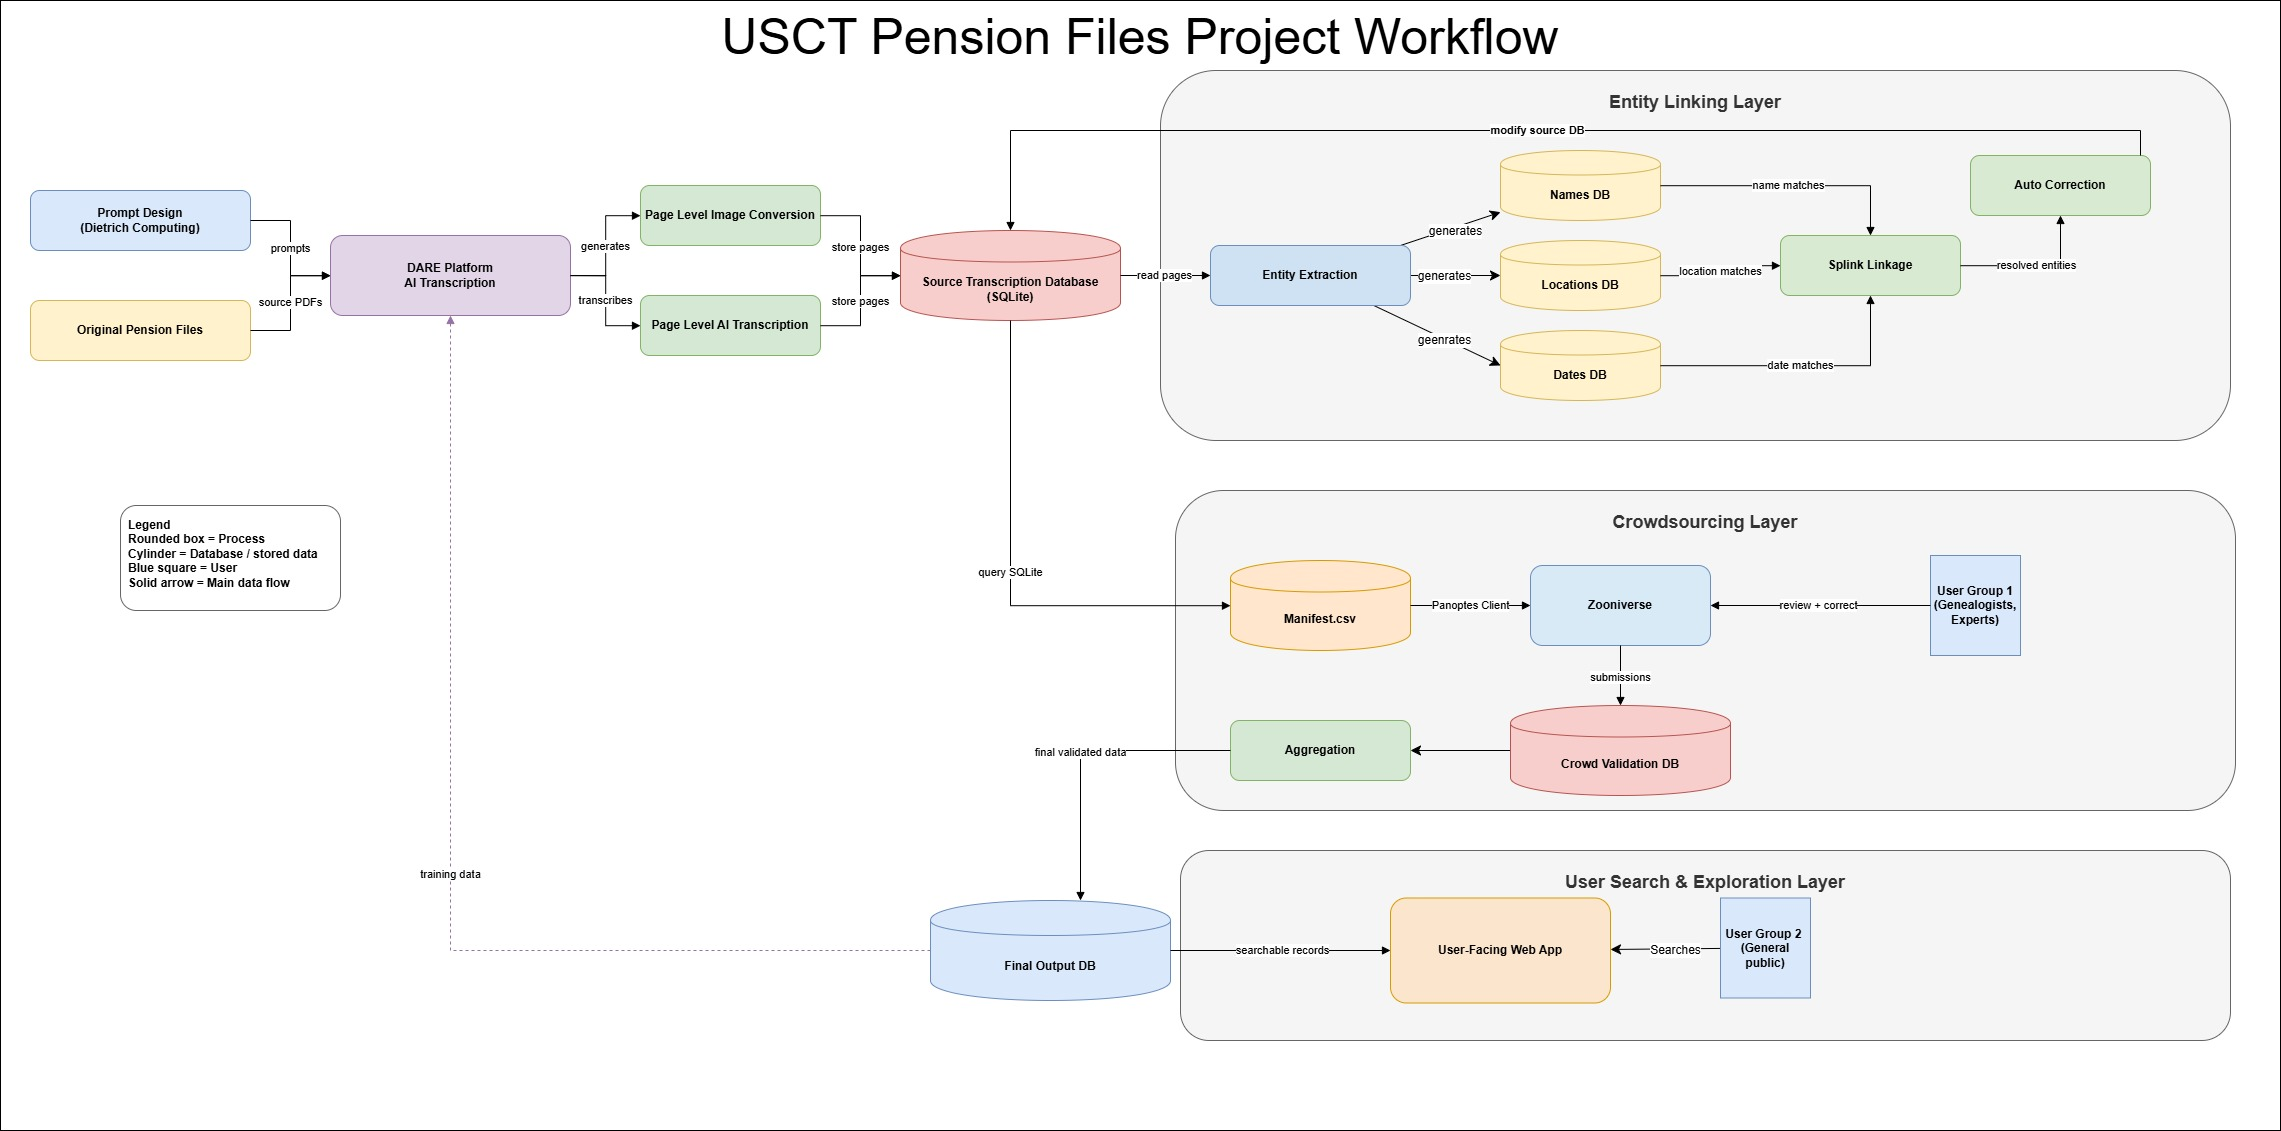
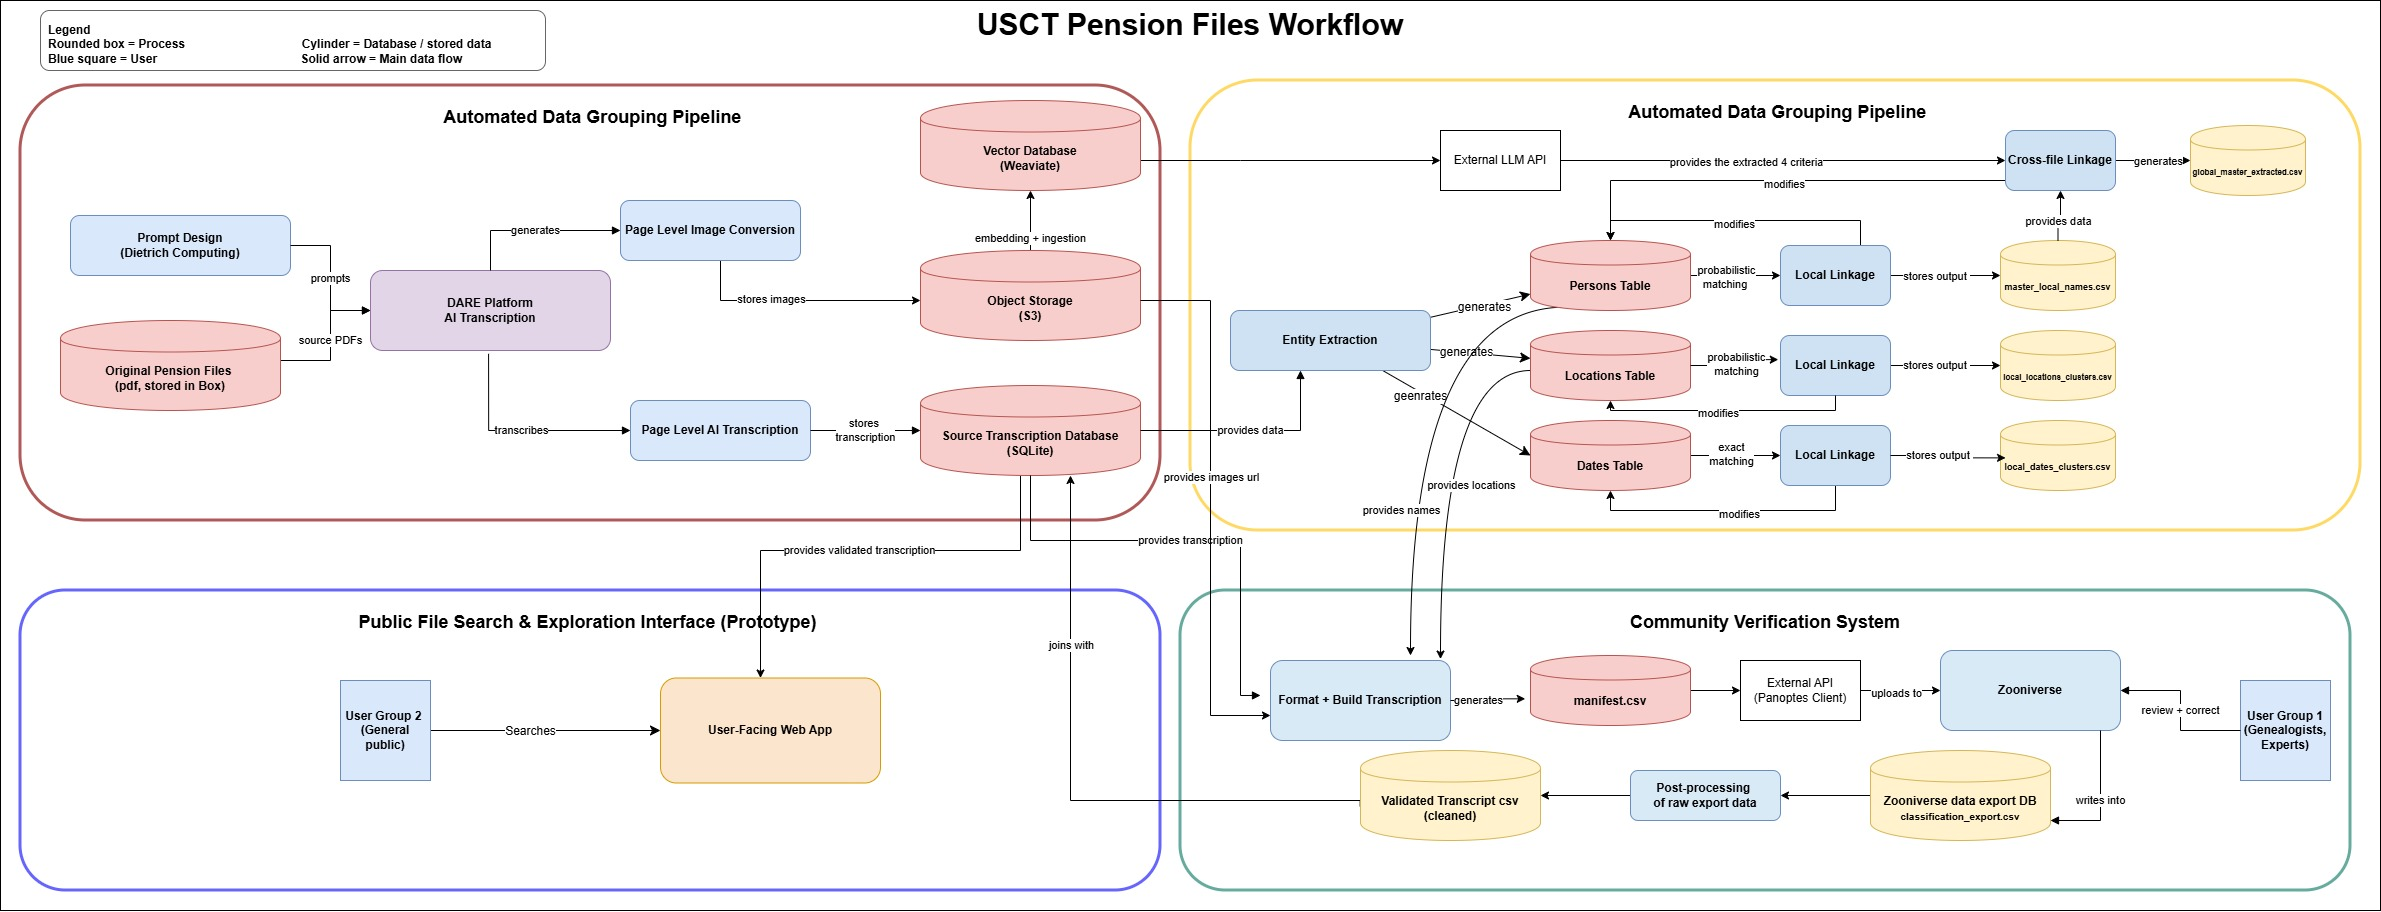
changed to finalized diagrams, removed usernames

diff --git a/zooniverse/src/upload/upload_subjects.py b/zooniverse/src/upload/upload_subjects.py
@@ -10,10 +10,10 @@ from panoptes_client.panoptes import PanoptesAPIException
 from panoptes_client.set_member_subject import SetMemberSubject
 
 REPO_ROOT = Path(__file__).resolve().parents[2]
-USERNAME = os.getenv("ZOONIVERSE_USERNAME", "usct_pension_files")
-PASSWORD = os.getenv("ZOONIVERSE_PASSWORD", "usct2026")
+USERNAME = os.getenv("ZOONIVERSE_USERNAME", "your-zooniverse-username") # please ask Dr Fields Black for the username
+PASSWORD = os.getenv("ZOONIVERSE_PASSWORD", "your-zooniverse-password") # please ask Dr Fields Black for the password
 PROJECT_ID = int(os.getenv("ZOONIVERSE_PROJECT_ID", "32086"))
-SUBJECT_SET_NAME = os.getenv("SUBJECT_SET_NAME", "Initial Transcription Review")
+SUBJECT_SET_NAME = os.getenv("SUBJECT_SET_NAME", "Initial Full Transcription")
 MANIFEST_PATH = Path(os.getenv("MANIFEST_PATH", REPO_ROOT / "dataset/manifest.csv"))
 BATCH_SIZE = int(os.getenv("SUBJECT_SET_BATCH_SIZE", "25"))
 RESUME_SKIP_COUNT = int(os.getenv("RESUME_SKIP_COUNT", "0"))

diff --git a/zooniverse/FUTURE_TEAMS_README.md b/zooniverse/FUTURE_TEAMS_README.md
@@ -1,9 +1,5 @@
 # Future Teams Readme (Zooniverse Component)
 
-Architecture diagram: `assets/repo_logic_flow.jpg`
-
-![Repo Logic Flow](assets/repo_logic_flow.jpg)
-
 ## Project Context
 
 This project is larger than the upload scripts, but this repo mainly covers the Zooniverse validation layer.
@@ -23,6 +19,10 @@ Each subject contains:
 - a small amount of metadata for traceability
 
 The important design choice is that the volunteer edits happen inside the Zooniverse text box, not in a metadata panel. That is why the upload script now uses paired `.txt` files instead of relying on a metadata field like `AI Transcript`.
+
+Architecture diagram: `assets/repo_logic_flow.jpg`
+
+![Repo Logic Flow](assets/repo_logic_flow.jpg)
 
 ## Current Data Flow
 

diff --git a/zooniverse/README.md b/zooniverse/README.md
@@ -18,6 +18,8 @@ Use this README as a short entry point, then jump to the more detailed docs belo
 - [ZOONIVERSE_SETUP_CHECKLIST.md](ZOONIVERSE_SETUP_CHECKLIST.md)
   For the manual post-upload checks in the Zooniverse interface.
 
+- Please contact cathyw at andrew dot cmu for any questions
+
 ## What This Folder Does
 
 The pipeline is:

diff --git a/zooniverse/DIETRICH_COMPUTING_README.md b/zooniverse/DIETRICH_COMPUTING_README.md
@@ -2,7 +2,7 @@
 
 Logic flow of this repo: 
 
-![Repo Logic Flow](assets/repo_logic_flow.jpg)
+![Repo Logic Flow](assets/architecture.png)
 
 ## Project Scope
 
